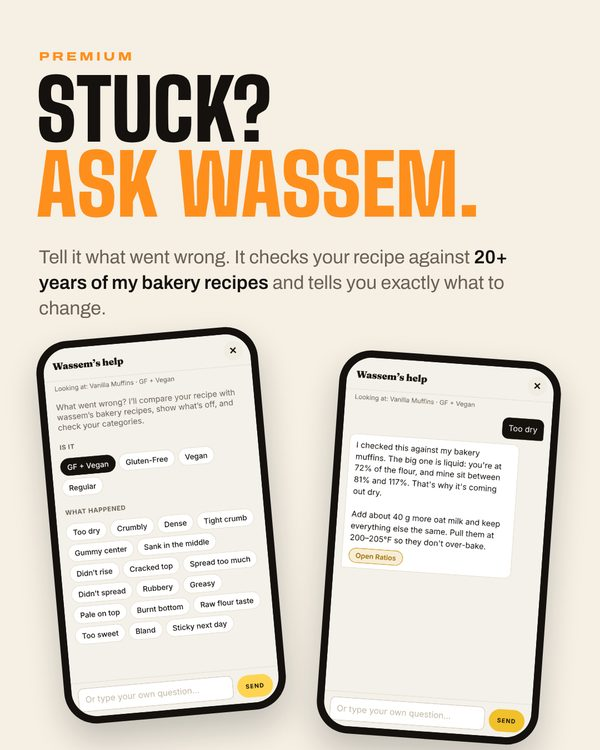
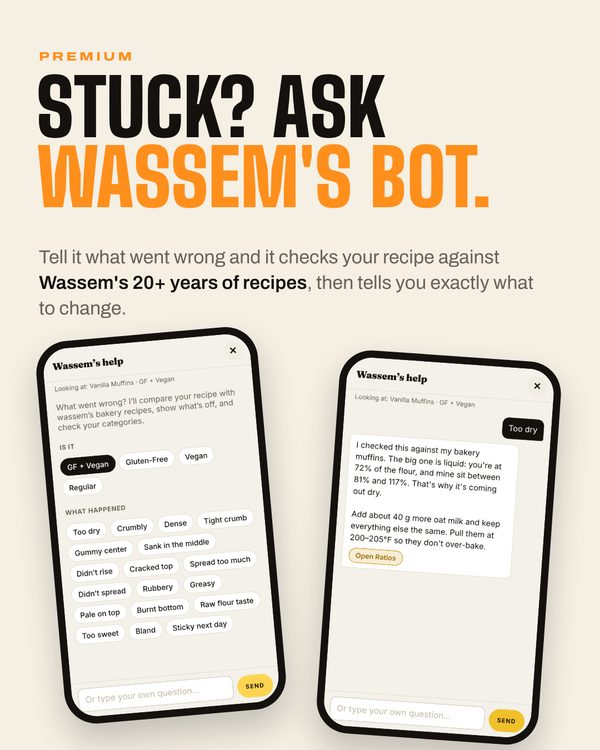
Recipe Builder: call the troubleshooting chat Wassem's bot
Claude-Session: https://claude.ai/code/session_01DuxAi6uxckqcKFkgHQ7edT

Changed region(s): [[0.06, 0.092, 0.81, 0.3067], [0.06, 0.3373, 0.9, 0.4293]]

diff --git a/recipe-builder/index.html b/recipe-builder/index.html
@@ -251,12 +251,12 @@
     <div class="rb-row flip">
       <picture class="rb-row-img">
         <source type="image/webp" srcset="ask-wassem-600w.webp 600w, ask-wassem-1080w.webp 1080w" sizes="(max-width: 900px) 100vw, 520px">
-        <img class="rb-slide" src="ask-wassem-1080w.jpg" srcset="ask-wassem-600w.jpg 600w, ask-wassem-1080w.jpg 1080w" sizes="(max-width: 900px) 100vw, 520px" width="1080" height="1350" alt="Wassem's help: a troubleshooting chat that checks your recipe against Wassem's bakery recipes" loading="lazy" decoding="async">
+        <img class="rb-slide" src="ask-wassem-1080w.jpg" srcset="ask-wassem-600w.jpg 600w, ask-wassem-1080w.jpg 1080w" sizes="(max-width: 900px) 100vw, 520px" width="1080" height="1350" alt="Wassem's bot: a troubleshooting chat that checks your recipe against Wassem's bakery recipes" loading="lazy" decoding="async">
       </picture>
       <div>
-        <div class="section-label">Wassem's help &middot; Premium</div>
+        <div class="section-label">Wassem's bot &middot; Premium</div>
         <h2 class="rb-h2">20 years of recipes, <em>on call.</em></h2>
-        <p class="rb-p">Muffins came out dry? Bread sank? Pick what happened, or type your question, and get a straight answer about your own recipe, with the exact fix and a jump to the screen that shows it.</p>
+        <p class="rb-p">Muffins came out dry? Bread sank? Tell Wassem's bot what went wrong and it checks your recipe against his 20+ years of recipes, then gives you the exact fix and a jump to the screen that shows it.</p>
       </div>
     </div>
   </div>
@@ -289,7 +289,7 @@
           <li>All of my recipes</li>
           <li>Cost per serving and a suggested retail price</li>
           <li>Compare recipes</li>
-          <li>Wassem's help: troubleshooting chat</li>
+          <li>Wassem's bot: troubleshooting chat</li>
           <li>Nutrition label PDF</li>
           <li>Batch log and version history</li>
           <li>Share your kitchen with your staff</li>
